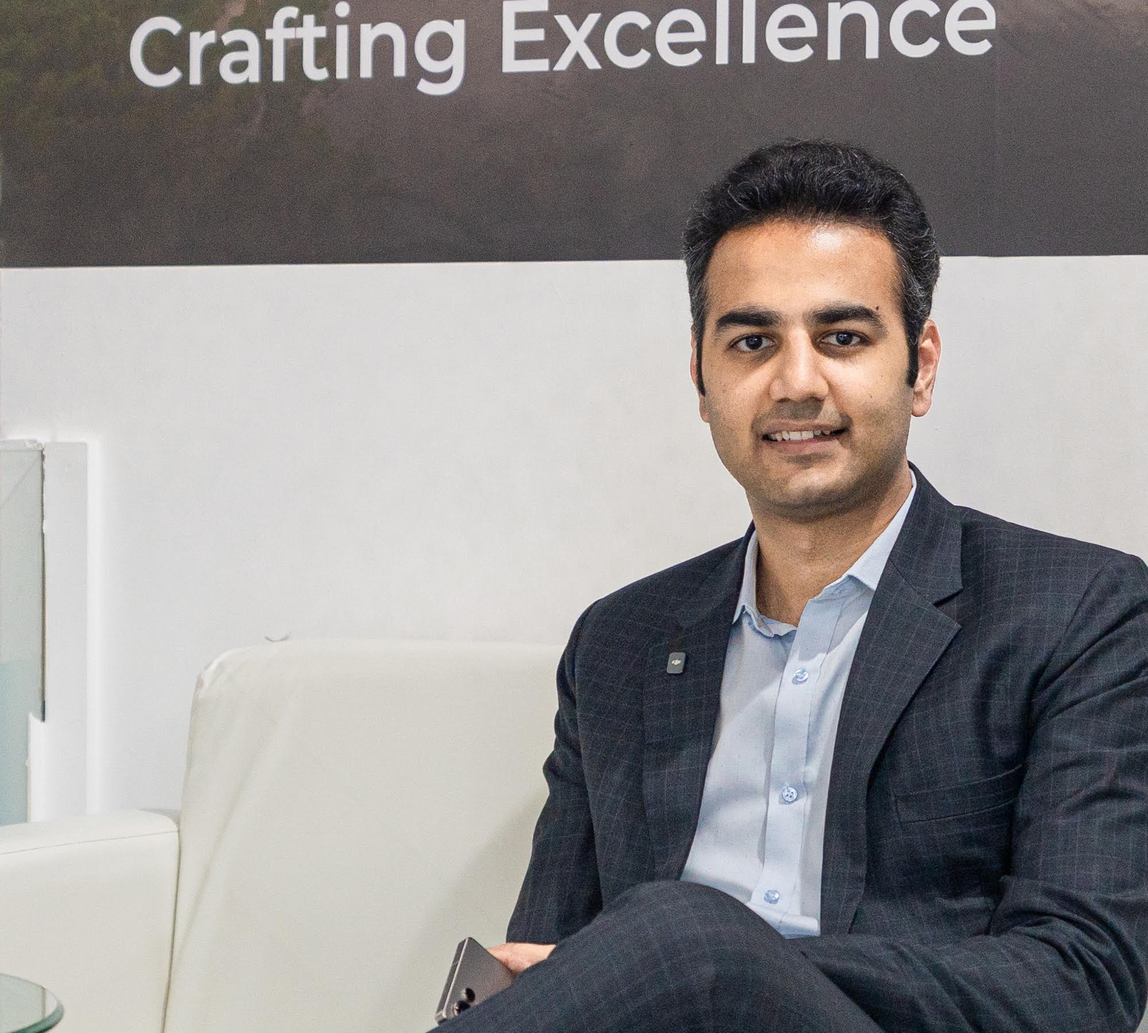
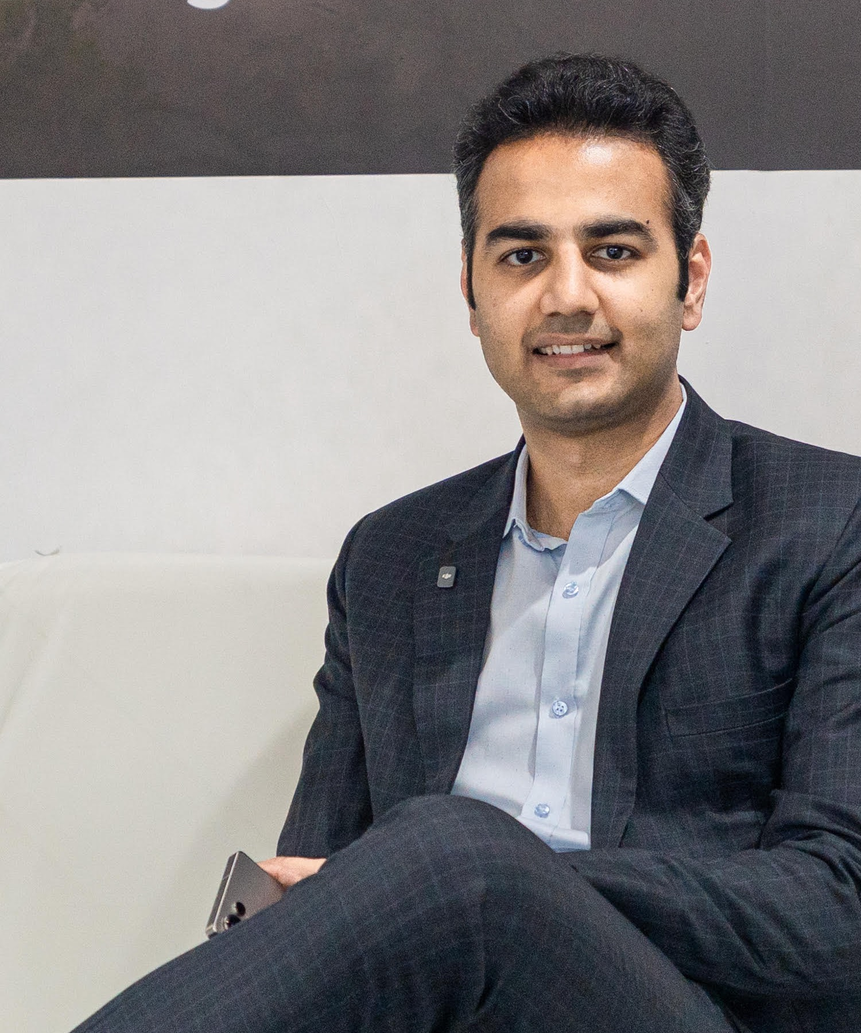
Better MD portrait crop: face+shoulders, clean framing

diff --git a/assets/css/style.css b/assets/css/style.css
@@ -983,21 +983,20 @@ ul, ol { list-style: none; }
 
 .leadership-grid { margin-top: 48px; display: flex; justify-content: center; }
 .leader-card {
-  display: flex;
-  flex-direction: column;
+  display: grid;
+  grid-template-columns: 380px 1fr;
+  gap: 48px;
   align-items: center;
-  max-width: 420px;
-  text-align: center;
+  max-width: 900px;
 }
 .leader-img {
   width: 100%;
-  max-width: 380px;
   height: auto;
   object-fit: contain;
   border-radius: var(--r);
   display: block;
-  margin: 0 auto 28px;
-  box-shadow: 0 8px 40px rgba(0,0,0,0.4);
+  margin: 0 auto;
+  image-rendering: auto;
 }
 .leader-card h3 {
   font-family: var(--font-head);
